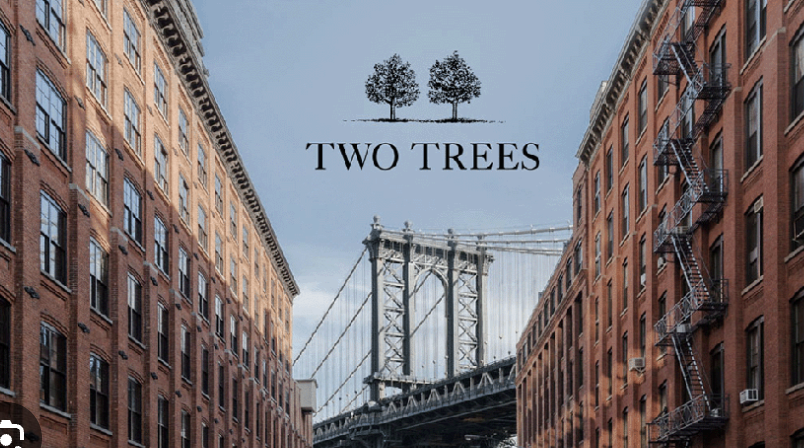
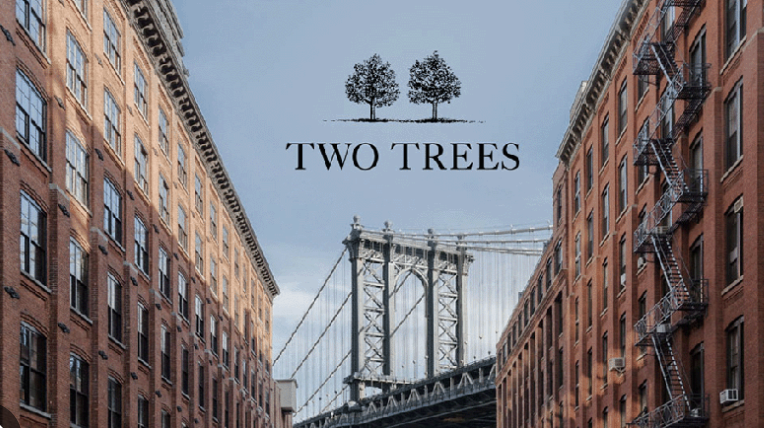
Re-crop Two Trees, require team selection, remove SMS promise, add Instagram link

diff --git a/index.html b/index.html
@@ -69,7 +69,6 @@
           <div class="form-group">
             <label for="phone">Phone Number <span class="required">*</span></label>
             <input type="tel" id="phone" name="phone" placeholder="(555) 555-5555" required />
-            <p class="field-hint">We'll text you a confirmation with your team number.</p>
           </div>
         </div>
 
@@ -105,15 +104,15 @@
           <div class="form-group" style="margin-top:1rem;">
             <label for="teamPhone">Your Phone Number <span class="required">*</span></label>
             <input type="tel" id="teamPhone" name="teamPhone" placeholder="(555) 555-5555" />
-            <p class="field-hint">We'll text you a confirmation with your team number.</p>
           </div>
         </div>
 
         <!-- Team Assignment (individual mode only) -->
         <div id="team-assignment" class="team-section">
           <div class="section-label">Team Assignment</div>
+          <p class="field-hint" style="margin-bottom:0.75rem;">Choose one:</p>
           <div class="team-toggle">
-            <button type="button" class="toggle-btn active" data-team-mode="new">Create New Team</button>
+            <button type="button" class="toggle-btn" data-team-mode="new">Create New Team</button>
             <button type="button" class="toggle-btn" data-team-mode="join">Join Existing Team</button>
           </div>
           <div id="join-team-input" class="hidden">
@@ -123,7 +122,7 @@
             </select>
             <p class="field-hint">Only teams with fewer than 5 players are shown.</p>
           </div>
-          <div id="new-team-info">
+          <div id="new-team-info" class="hidden">
             <p class="field-hint">You'll be assigned the next available team number (1&ndash;20).</p>
           </div>
         </div>
@@ -319,6 +318,7 @@
 
   <!-- FOOTER -->
   <footer>
+    <a href="https://instagram.com/kicks_for_chips" target="_blank" style="color:#888;text-decoration:underline;font-size:14px;">@kicks_for_chips</a>
     <p>Made by Repin</p>
   </footer>
 

diff --git a/script.js b/script.js
@@ -48,7 +48,7 @@ async function sendSMS(phone, playerName, teamNumber) {
 
 // ===== STATE =====
 let teams = []; // built from DB rows
-let teamMode = 'new';
+let teamMode = null;
 let regMode = 'individual';
 
 // ===== BUILD TEAMS FROM DB ROWS =====
@@ -355,6 +355,11 @@ function validateTeamTarget() {
       return null;
     }
     return { mode: 'new', number: num };
+  }
+
+  if (!teamMode) {
+    setStatus('Please select "Create New Team" or "Join Existing Team".', 'error');
+    return null;
   }
 
   if (teamMode === 'join') {
